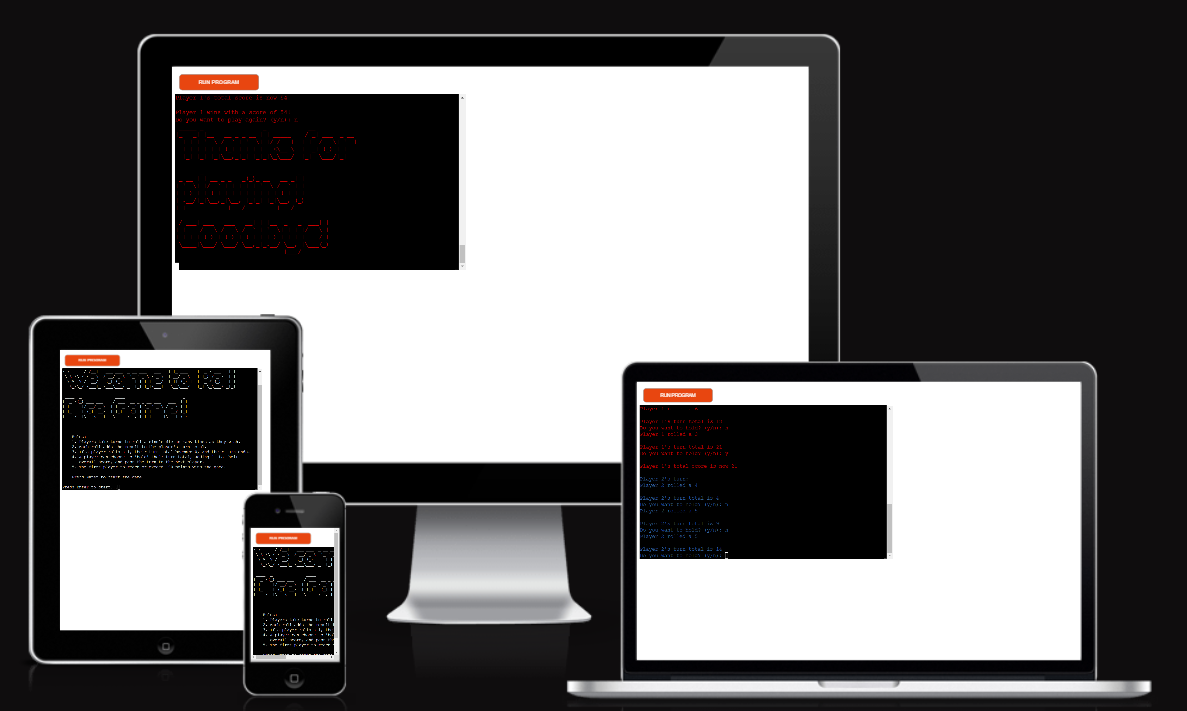
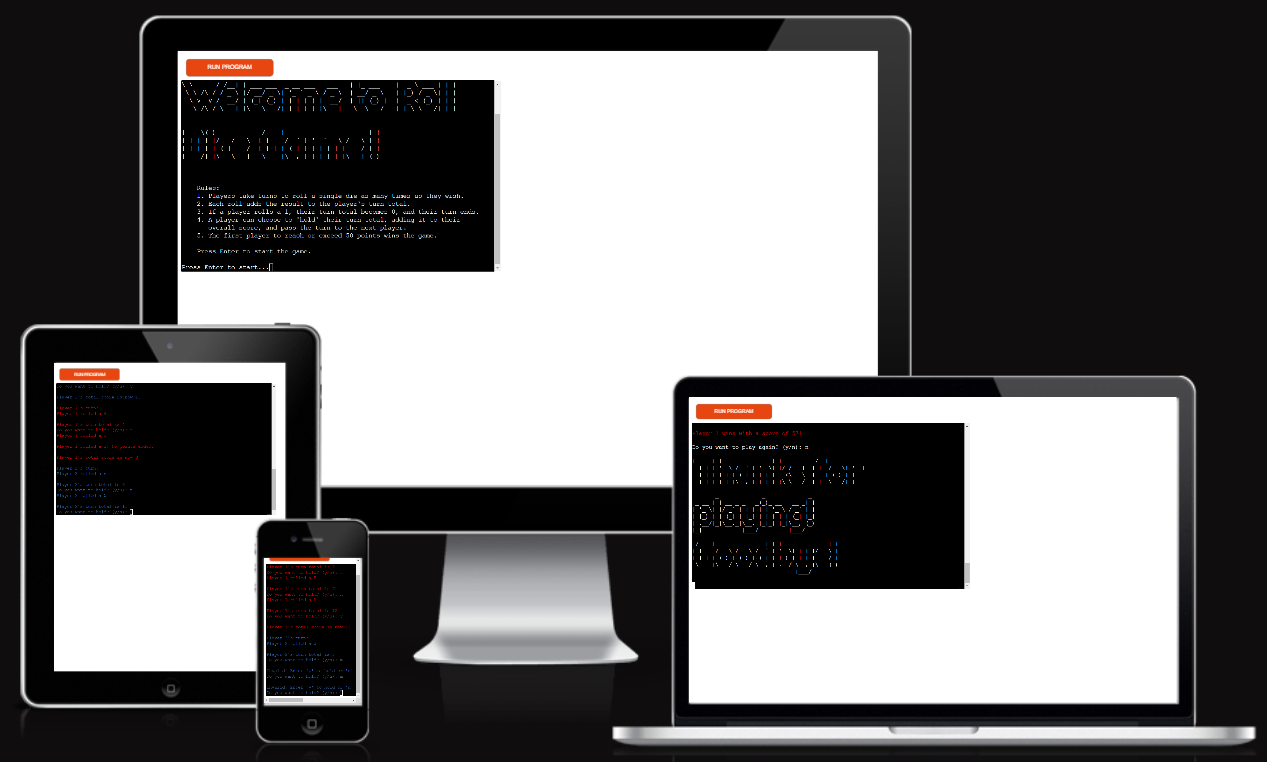
Add final touches to project

Changed region(s): [[0.0, 0.0, 0.9975, 0.9902]]

diff --git a/README.md b/README.md
@@ -10,14 +10,14 @@ Welcome to the Roll Dice Game! This is a simple implementation of the classic di
 - Each roll adds the result to the player's turn total
 - If a player rolls a 1, their turn total becomes 0, and their turn ends
 - A player can choose to 'hold' their turn total, adding it to their overall score, and pass the turn to the next player
-- The first player to reach or exceed 100 points wins the game
+- The first player to reach or exceed 50 points wins the game
 
 ## How to Play
 
 - Run the script to start the game
 - The game will display the rules. Press Enter to start
 - Players take turns rolling the die. After each roll, they can choose to roll again or hold their score
-- The game continues until one player reaches or exceeds 100 points
+- The game continues until one player reaches or exceeds 50 points
 - After the game ends, players can choose to play again or exit
 
 ## Features
@@ -33,7 +33,7 @@ Welcome to the Roll Dice Game! This is a simple implementation of the classic di
 - Game over
   - User have a option to play a game again or quit the game
 
-![Game over](docs/project-images/roll-dice-game-over.png)
+![Game over](docs/project-images/roll-dice-goodbye.png)
 
 ## Technologies
 
@@ -62,26 +62,66 @@ Welcome to the Roll Dice Game! This is a simple implementation of the classic di
 - Game is tested using:
   - https://pep8ci.herokuapp.com/
 
-![Python linter](docs/validation-images/python-linter-roll-dice.png)
+![Python linter](docs/validation-images/roll-dice-pep8ci.png)
 
   - https://www.online-ide.com/online_python_syntax_checker
 
 ![Python validation](docs/validation-images/python-validator-roll-dice.png)
 
 ## Functional Testing
-All inputs works as they should:
+All features works as they should:
 
 - Enter on welcome page:
+  - when user press Enter, Game starts
 
 ![Enter](docs/validation-images/roll-dice-enter.png)
+
+- mathematics
+  - mathematics are working as it should
+
+![Math](docs/validation-images/roll-dice-dice.png)
+
+![Math](docs/validation-images/roll-dice-turn-total.png)
+
+![Math](docs/validation-images/roll-dice-update-score.png)
   
 - y/n for hold:
+  - yes: player choose to 'hold' their turn total, adding it to their overall score, and pass the turn to the next player
+  - no: player chose to continue rolling dice, adding each number to their turn total
 
 ![Hold](docs/validation-images/roll-dice-hold.png)
 
+![Hold](docs/validation-images/roll-dice-hold-or-not.png)
+
+- if user enters anything but y/n:
+  - if user enters anything but y/n, message will be printed to warn them
+
+![Warn](docs/validation-images/roll-dice-y-n-validation.png)
+
+![Warn](docs/validation-images/roll-dice-y-n-validation2.png)
+
+- if player roll 1:
+  - if a player rolls a 1, their turn total becomes 0, and their turn ends
+
+![If 1](docs/validation-images/roll-dice-if-1.png)
+
 - play again when game is over:
+  - yes: Game starts again
+  - no: Game over! Goodbye message will be displayed
 
 ![Play again](docs/validation-images/roll-dice-play-again.png)
+
+- color set/reset, pyfiglet:
+  - welcome message is written in pyfiglet
+  - player 1 turn is red colored
+  - player 2 turn is blue colored
+  - game over is reset to white again and written in pyfiglet
+
+![Welcome](docs/project-images/roll-dice-welcome.png)
+
+![Color set](docs/project-images/roll-dice-game.png)
+
+![Color reset](docs/project-images/roll-dice-goodbye.png)
 
 ## Deployment
 
